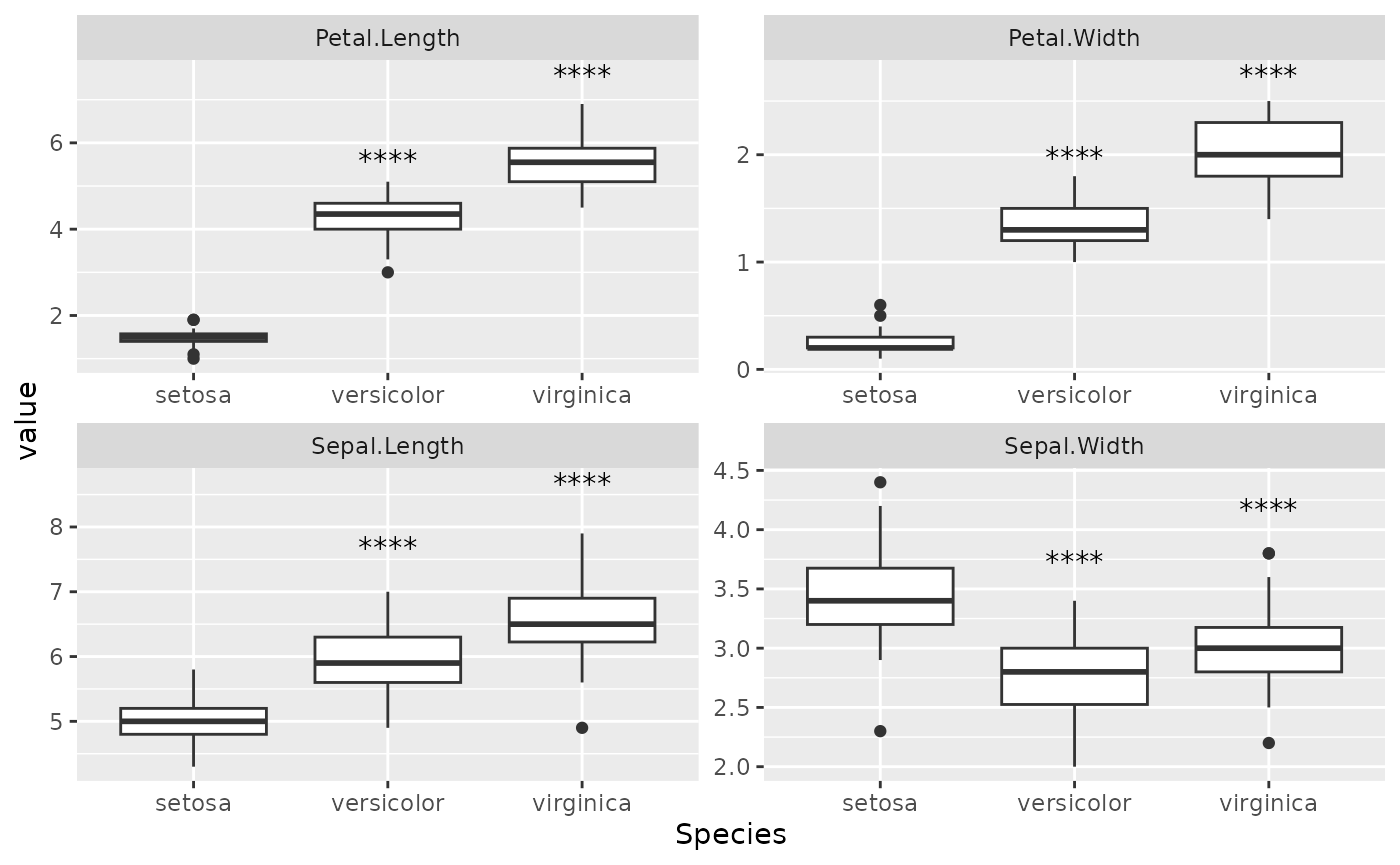
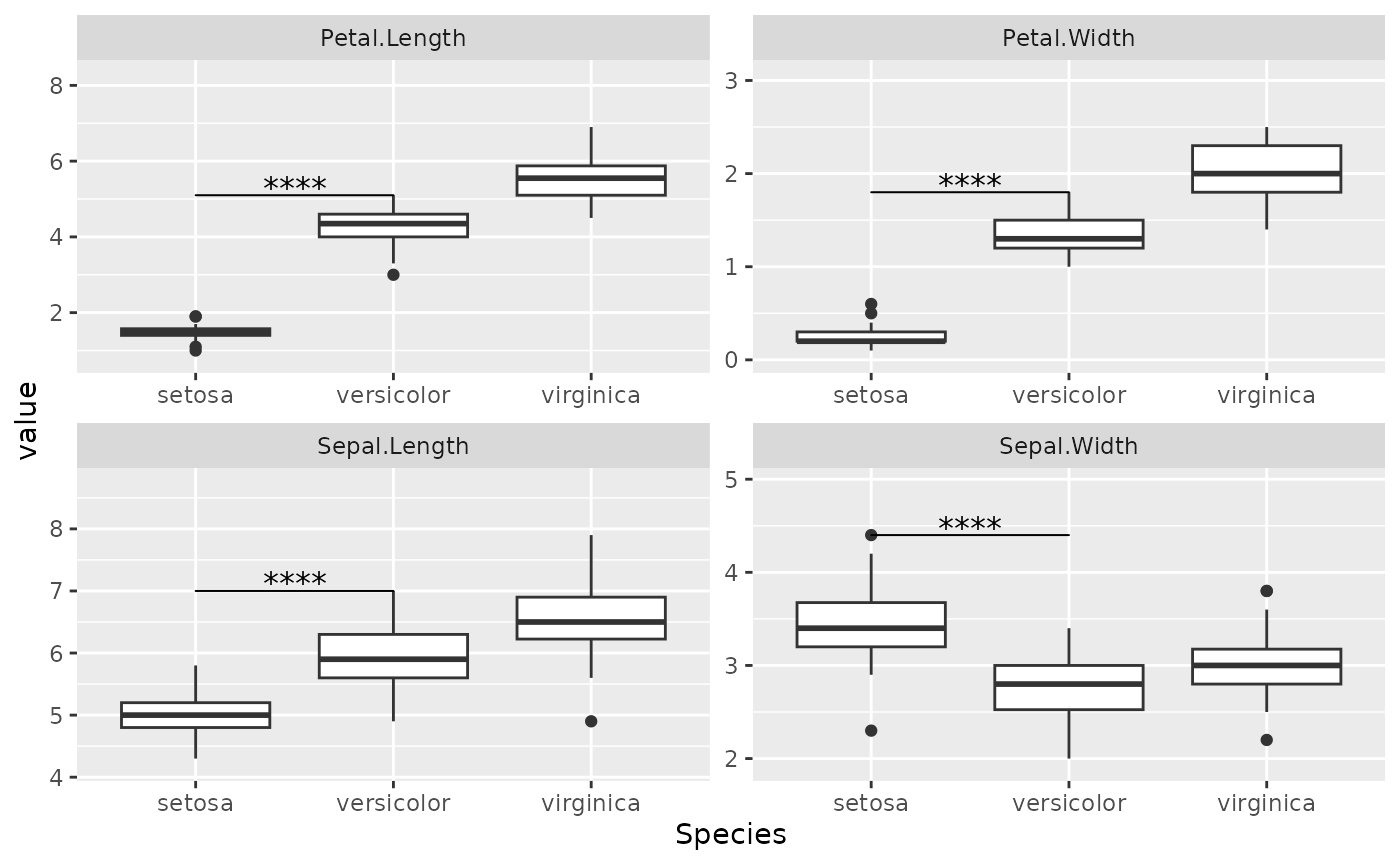
Deploying to gh-pages from @ myuhao/ggmulticomp@fff48fe5a08f52899221ff80b65fdf4333245be5 🚀

diff --git a/articles/Getting-Started.html b/articles/Getting-Started.html
@@ -20,7 +20,7 @@
 
     <a class="navbar-brand me-2" href="../index.html">ggmulticomp</a>
 
-    <small class="nav-text text-muted me-auto" data-bs-toggle="tooltip" data-bs-placement="bottom" title="">0.1.1</small>
+    <small class="nav-text text-muted me-auto" data-bs-toggle="tooltip" data-bs-placement="bottom" title="">0.1.2</small>
 
 
     <button class="navbar-toggler" type="button" data-bs-toggle="collapse" data-bs-target="#navbar" aria-controls="navbar" aria-expanded="false" aria-label="Toggle navigation">
@@ -70,7 +70,7 @@
 <span></span>
 <span></span>
 <span><span class="va">df</span> <span class="op">=</span> <span class="va">iris</span> <span class="op">|&gt;</span></span>
-<span>  <span class="fu">tidyr</span><span class="fu">::</span><span class="fu"><a href="https://tidyr.tidyverse.org/reference/pivot_longer.html" class="external-link">pivot_longer</a></span><span class="op">(</span><span class="op">-</span><span class="va">Species</span> <span class="op">)</span></span>
+<span>  <span class="fu">tidyr</span><span class="fu">::</span><span class="fu"><a href="https://tidyr.tidyverse.org/reference/pivot_longer.html" class="external-link">pivot_longer</a></span><span class="op">(</span><span class="op">-</span><span class="va">Species</span><span class="op">)</span></span>
 <span></span>
 <span><span class="va">base_plot</span> <span class="op">=</span> <span class="va">df</span> <span class="op">|&gt;</span></span>
 <span>  <span class="fu"><a href="https://ggplot2.tidyverse.org/reference/ggplot.html" class="external-link">ggplot</a></span><span class="op">(</span><span class="fu"><a href="https://ggplot2.tidyverse.org/reference/aes.html" class="external-link">aes</a></span><span class="op">(</span>x <span class="op">=</span> <span class="va">Species</span>, y <span class="op">=</span> <span class="va">value</span><span class="op">)</span><span class="op">)</span> <span class="op">+</span></span>
@@ -146,6 +146,15 @@ not look good by default.</p>
 <span>  <span class="fu"><a href="../reference/Tukey.html">stat_tukey</a></span><span class="op">(</span>text_size <span class="op">=</span> <span class="fl">5</span>, line_size <span class="op">=</span> <span class="fl">0.5</span>, linetype <span class="op">=</span> <span class="fl">2</span><span class="op">)</span> <span class="op">+</span> </span>
 <span>  <span class="fu"><a href="https://ggplot2.tidyverse.org/reference/scale_continuous.html" class="external-link">scale_y_continuous</a></span><span class="op">(</span>expand <span class="op">=</span> <span class="fu"><a href="https://ggplot2.tidyverse.org/reference/expansion.html" class="external-link">expansion</a></span><span class="op">(</span>mult <span class="op">=</span> <span class="fu"><a href="https://rdrr.io/r/base/c.html" class="external-link">c</a></span><span class="op">(</span><span class="fl">0.1</span>, <span class="fl">0.5</span><span class="op">)</span><span class="op">)</span><span class="op">)</span></span></code></pre></div>
 <p><img src="Getting-Started_files/figure-html/unnamed-chunk-6-1.png" class="r-plt" alt="" width="700"></p>
+<p>The <code>comparisons()</code> parameter allows only selected
+comparisons to be displayed. This parameter doesn’t change the
+underlying statistics (all groups will be included in statistical
+test).</p>
+<div class="sourceCode" id="cb8"><pre class="downlit sourceCode r">
+<code class="sourceCode R"><span><span class="va">base_plot</span> <span class="op">+</span></span>
+<span>  <span class="fu"><a href="../reference/Tukey.html">stat_tukey</a></span><span class="op">(</span>comparisons <span class="op">=</span> <span class="fu"><a href="https://rdrr.io/r/base/list.html" class="external-link">list</a></span><span class="op">(</span><span class="fu"><a href="https://rdrr.io/r/base/c.html" class="external-link">c</a></span><span class="op">(</span><span class="fl">1</span>, <span class="fl">2</span><span class="op">)</span><span class="op">)</span><span class="op">)</span> <span class="op">+</span></span>
+<span>  <span class="fu"><a href="https://ggplot2.tidyverse.org/reference/scale_continuous.html" class="external-link">scale_y_continuous</a></span><span class="op">(</span>expand <span class="op">=</span> <span class="fu"><a href="https://ggplot2.tidyverse.org/reference/expansion.html" class="external-link">expansion</a></span><span class="op">(</span>mult <span class="op">=</span> <span class="fu"><a href="https://rdrr.io/r/base/c.html" class="external-link">c</a></span><span class="op">(</span><span class="fl">0.1</span>, <span class="fl">0.3</span><span class="op">)</span><span class="op">)</span><span class="op">)</span></span></code></pre></div>
+<p><img src="Getting-Started_files/figure-html/unnamed-chunk-7-1.png" class="r-plt" alt="" width="700"></p>
 </div>
 <div class="section level2">
 <h2 id="dunnett">Dunnett<a class="anchor" aria-label="anchor" href="#dunnett"></a>
@@ -153,23 +162,23 @@ not look good by default.</p>
 <p>Dunnett test works similar to Tukey test. The parameter should work
 similarly. One key distinction is that <code><a href="../reference/Dunnett.html">stat_dunnett()</a></code> shows
 the p-values at the top of the group</p>
-<div class="sourceCode" id="cb8"><pre class="downlit sourceCode r">
-<code class="sourceCode R"><span><span class="va">base_plot</span> <span class="op">+</span></span>
-<span>  <span class="fu"><a href="../reference/Dunnett.html">stat_dunnett</a></span><span class="op">(</span><span class="op">)</span></span></code></pre></div>
-<p><img src="Getting-Started_files/figure-html/unnamed-chunk-7-1.png" class="r-plt" alt="" width="700"></p>
-<p>A different style of alignment can be used.</p>
 <div class="sourceCode" id="cb9"><pre class="downlit sourceCode r">
 <code class="sourceCode R"><span><span class="va">base_plot</span> <span class="op">+</span></span>
-<span>  <span class="fu"><a href="../reference/Dunnett.html">stat_dunnett</a></span><span class="op">(</span>p.y_align <span class="op">=</span> <span class="fl">2</span><span class="op">)</span></span></code></pre></div>
+<span>  <span class="fu"><a href="../reference/Dunnett.html">stat_dunnett</a></span><span class="op">(</span><span class="op">)</span></span></code></pre></div>
 <p><img src="Getting-Started_files/figure-html/unnamed-chunk-8-1.png" class="r-plt" alt="" width="700"></p>
+<p>A different style of alignment can be used.</p>
+<div class="sourceCode" id="cb10"><pre class="downlit sourceCode r">
+<code class="sourceCode R"><span><span class="va">base_plot</span> <span class="op">+</span></span>
+<span>  <span class="fu"><a href="../reference/Dunnett.html">stat_dunnett</a></span><span class="op">(</span>p.y_align <span class="op">=</span> <span class="fl">2</span><span class="op">)</span></span></code></pre></div>
+<p><img src="Getting-Started_files/figure-html/unnamed-chunk-9-1.png" class="r-plt" alt="" width="700"></p>
 <p>If you want explicitly show which comparisons are made, use
 <code>GeomBracket</code> as the geom.</p>
-<div class="sourceCode" id="cb10"><pre class="downlit sourceCode r">
+<div class="sourceCode" id="cb11"><pre class="downlit sourceCode r">
 <code class="sourceCode R"><span></span>
 <span><span class="va">base_plot</span> <span class="op">+</span></span>
 <span>  <span class="fu"><a href="../reference/Dunnett.html">stat_dunnett</a></span><span class="op">(</span>geom <span class="op">=</span> <span class="st">"bracket"</span><span class="op">)</span> <span class="op">+</span> </span>
 <span>  <span class="fu"><a href="https://ggplot2.tidyverse.org/reference/scale_continuous.html" class="external-link">scale_y_continuous</a></span><span class="op">(</span>expand <span class="op">=</span> <span class="fu"><a href="https://ggplot2.tidyverse.org/reference/expansion.html" class="external-link">expansion</a></span><span class="op">(</span>mult <span class="op">=</span> <span class="fu"><a href="https://rdrr.io/r/base/c.html" class="external-link">c</a></span><span class="op">(</span><span class="fl">0.1</span>, <span class="fl">0.5</span><span class="op">)</span><span class="op">)</span><span class="op">)</span></span></code></pre></div>
-<p><img src="Getting-Started_files/figure-html/unnamed-chunk-9-1.png" class="r-plt" alt="" width="700"></p>
+<p><img src="Getting-Started_files/figure-html/unnamed-chunk-10-1.png" class="r-plt" alt="" width="700"></p>
 </div>
   </main><aside class="col-md-3"><nav id="toc" aria-label="Table of contents"><h2>On this page</h2>
     </nav></aside>

diff --git a/index.html b/index.html
@@ -22,7 +22,7 @@
 
     <a class="navbar-brand me-2" href="index.html">ggmulticomp</a>
 
-    <small class="nav-text text-muted me-auto" data-bs-toggle="tooltip" data-bs-placement="bottom" title="">0.1.1</small>
+    <small class="nav-text text-muted me-auto" data-bs-toggle="tooltip" data-bs-placement="bottom" title="">0.1.2</small>
 
 
     <button class="navbar-toggler" type="button" data-bs-toggle="collapse" data-bs-target="#navbar" aria-controls="navbar" aria-expanded="false" aria-label="Toggle navigation">
@@ -77,27 +77,14 @@
 <span>    y <span class="op">=</span> <span class="va">value</span>, x <span class="op">=</span> <span class="va">Species</span></span>
 <span>  <span class="op">)</span> </span>
 <span></span>
-<span><span class="va">dat</span> <span class="op">|&gt;</span></span>
-<span>  <span class="fu"><a href="https://ggplot2.tidyverse.org/reference/ggplot.html" class="external-link">ggplot</a></span><span class="op">(</span><span class="fu"><a href="https://ggplot2.tidyverse.org/reference/aes.html" class="external-link">aes</a></span><span class="op">(</span>x <span class="op">=</span> <span class="va">Species</span>, y <span class="op">=</span> <span class="va">value</span><span class="op">)</span><span class="op">)</span> <span class="op">+</span></span>
+<span><span class="va">iris</span> <span class="op">|&gt;</span></span>
+<span>  <span class="fu"><a href="https://ggplot2.tidyverse.org/reference/ggplot.html" class="external-link">ggplot</a></span><span class="op">(</span><span class="fu"><a href="https://ggplot2.tidyverse.org/reference/aes.html" class="external-link">aes</a></span><span class="op">(</span>x <span class="op">=</span> <span class="va">Species</span>, y <span class="op">=</span> <span class="va">Sepal.Length</span><span class="op">)</span><span class="op">)</span> <span class="op">+</span></span>
 <span>  <span class="fu"><a href="https://ggplot2.tidyverse.org/reference/geom_point.html" class="external-link">geom_point</a></span><span class="op">(</span><span class="op">)</span> <span class="op">+</span></span>
 <span>  <span class="fu"><a href="https://ggplot2.tidyverse.org/reference/stat_summary.html" class="external-link">stat_summary</a></span><span class="op">(</span>geom <span class="op">=</span> <span class="va">GeomCol</span><span class="op">)</span> <span class="op">+</span></span>
-<span>  <span class="fu"><a href="reference/Dunnett.html">stat_dunnett</a></span><span class="op">(</span>color <span class="op">=</span> <span class="st">"red"</span><span class="op">)</span> <span class="op">+</span></span>
-<span>  <span class="fu"><a href="https://ggplot2.tidyverse.org/reference/facet_grid.html" class="external-link">facet_grid</a></span><span class="op">(</span>rows <span class="op">=</span> <span class="fu"><a href="https://ggplot2.tidyverse.org/reference/vars.html" class="external-link">vars</a></span><span class="op">(</span><span class="va">name</span><span class="op">)</span>, cols <span class="op">=</span> <span class="fu"><a href="https://ggplot2.tidyverse.org/reference/vars.html" class="external-link">vars</a></span><span class="op">(</span><span class="st">"a"</span><span class="op">)</span>, scale <span class="op">=</span> <span class="st">"free_y"</span><span class="op">)</span></span>
-<span><span class="co">#&gt; No summary function supplied, defaulting to `mean_se()`</span></span>
-<span><span class="co">#&gt; Warning: Removed 4 rows containing missing values or values outside the scale range</span></span>
-<span><span class="co">#&gt; (`geom_text()`).</span></span></code></pre></div>
-<p><img src="reference/figures/README-example-1.png" width="100%"></p>
-<div class="sourceCode" id="cb3"><pre class="downlit sourceCode r">
-<code class="sourceCode R"><span></span>
-<span><span class="va">dat</span> <span class="op">|&gt;</span></span>
-<span>  <span class="fu"><a href="https://ggplot2.tidyverse.org/reference/ggplot.html" class="external-link">ggplot</a></span><span class="op">(</span><span class="fu"><a href="https://ggplot2.tidyverse.org/reference/aes.html" class="external-link">aes</a></span><span class="op">(</span>x <span class="op">=</span> <span class="va">Species</span>, y <span class="op">=</span> <span class="va">value</span><span class="op">)</span><span class="op">)</span> <span class="op">+</span></span>
-<span>  <span class="fu"><a href="https://ggplot2.tidyverse.org/reference/geom_point.html" class="external-link">geom_point</a></span><span class="op">(</span><span class="op">)</span> <span class="op">+</span></span>
-<span>  <span class="fu"><a href="https://ggplot2.tidyverse.org/reference/stat_summary.html" class="external-link">stat_summary</a></span><span class="op">(</span>geom <span class="op">=</span> <span class="va">GeomCol</span><span class="op">)</span> <span class="op">+</span></span>
-<span>  <span class="fu">geom_tukey</span><span class="op">(</span><span class="op">)</span> <span class="op">+</span></span>
-<span>  <span class="fu"><a href="https://ggplot2.tidyverse.org/reference/scale_continuous.html" class="external-link">scale_y_continuous</a></span><span class="op">(</span>expand <span class="op">=</span> <span class="fu"><a href="https://ggplot2.tidyverse.org/reference/expansion.html" class="external-link">expansion</a></span><span class="op">(</span>mult <span class="op">=</span> <span class="fu"><a href="https://rdrr.io/r/base/c.html" class="external-link">c</a></span><span class="op">(</span><span class="fl">0</span>, <span class="fl">0.2</span><span class="op">)</span><span class="op">)</span><span class="op">)</span> <span class="op">+</span></span>
-<span>  <span class="fu"><a href="https://ggplot2.tidyverse.org/reference/facet_grid.html" class="external-link">facet_grid</a></span><span class="op">(</span>rows <span class="op">=</span> <span class="fu"><a href="https://ggplot2.tidyverse.org/reference/vars.html" class="external-link">vars</a></span><span class="op">(</span><span class="va">name</span><span class="op">)</span>, cols <span class="op">=</span> <span class="fu"><a href="https://ggplot2.tidyverse.org/reference/vars.html" class="external-link">vars</a></span><span class="op">(</span><span class="st">"a"</span><span class="op">)</span>, scale <span class="op">=</span> <span class="st">"free_y"</span><span class="op">)</span></span>
+<span>  <span class="fu"><a href="reference/Tukey.html">stat_tukey</a></span><span class="op">(</span><span class="op">)</span> <span class="op">+</span></span>
+<span>  <span class="fu"><a href="https://ggplot2.tidyverse.org/reference/scale_continuous.html" class="external-link">scale_y_continuous</a></span><span class="op">(</span>expand <span class="op">=</span> <span class="fu"><a href="https://ggplot2.tidyverse.org/reference/expansion.html" class="external-link">expansion</a></span><span class="op">(</span>mult <span class="op">=</span> <span class="fu"><a href="https://rdrr.io/r/base/c.html" class="external-link">c</a></span><span class="op">(</span><span class="fl">0</span>, <span class="fl">0.3</span><span class="op">)</span><span class="op">)</span><span class="op">)</span></span>
 <span><span class="co">#&gt; No summary function supplied, defaulting to `mean_se()`</span></span></code></pre></div>
-<p><img src="reference/figures/README-example-2.png" width="100%"></p>
+<p><img src="reference/figures/README-example-1.png" width="100%"></p>
 </div>
 </div>
   </main><aside class="col-md-3"><div class="license">

diff --git a/reference/Bracket.html b/reference/Bracket.html
@@ -11,7 +11,7 @@ bracket is automatically increased to dodge each other."></head><body>
 
     <a class="navbar-brand me-2" href="../index.html">ggmulticomp</a>
 
-    <small class="nav-text text-muted me-auto" data-bs-toggle="tooltip" data-bs-placement="bottom" title="">0.1.1</small>
+    <small class="nav-text text-muted me-auto" data-bs-toggle="tooltip" data-bs-placement="bottom" title="">0.1.2</small>
 
 
     <button class="navbar-toggler" type="button" data-bs-toggle="collapse" data-bs-target="#navbar" aria-controls="navbar" aria-expanded="false" aria-label="Toggle navigation">
@@ -57,6 +57,7 @@ bracket is automatically increased to dodge each other.</p>
 <span>  text_size <span class="op">=</span> <span class="fl">12</span>,</span>
 <span>  line_size <span class="op">=</span> <span class="fl">1</span>,</span>
 <span>  linetype <span class="op">=</span> <span class="st">"solid"</span>,</span>
+<span>  comparisons <span class="op">=</span> <span class="cn">NULL</span>,</span>
 <span>  <span class="va">...</span></span>
 <span><span class="op">)</span></span>
 <span></span>
@@ -65,7 +66,7 @@ bracket is automatically increased to dodge each other.</p>
 
     <div class="section level2">
     <h2 id="format">Format<a class="anchor" aria-label="anchor" href="#format"></a></h2>
-    <p>An object of class <code>GeomBracket</code> (inherits from <code>Geom</code>, <code>ggproto</code>, <code>gg</code>) of length 4.</p>
+    <p>An object of class <code>GeomBracket</code> (inherits from <code>Geom</code>, <code>ggproto</code>, <code>gg</code>) of length 5.</p>
     </div>
     <div class="section level2">
     <h2 id="arguments">Arguments<a class="anchor" aria-label="anchor" href="#arguments"></a></h2>
@@ -81,6 +82,10 @@ bracket is automatically increased to dodge each other.</p>
 
 <dt id="arg-linetype">linetype<a class="anchor" aria-label="anchor" href="#arg-linetype"></a></dt>
 <dd><p>Format of the line.</p></dd>
+
+
+<dt id="arg-comparisons">comparisons<a class="anchor" aria-label="anchor" href="#arg-comparisons"></a></dt>
+<dd><p>A list of selected comparisons to plot</p></dd>
 
 </dl></div>
 

diff --git a/reference/Tukey.html b/reference/Tukey.html
@@ -9,7 +9,7 @@ Display the adjusted p-values on the figure."></head><body>
 
     <a class="navbar-brand me-2" href="../index.html">ggmulticomp</a>
 
-    <small class="nav-text text-muted me-auto" data-bs-toggle="tooltip" data-bs-placement="bottom" title="">0.1.1</small>
+    <small class="nav-text text-muted me-auto" data-bs-toggle="tooltip" data-bs-placement="bottom" title="">0.1.2</small>
 
 
     <button class="navbar-toggler" type="button" data-bs-toggle="collapse" data-bs-target="#navbar" aria-controls="navbar" aria-expanded="false" aria-label="Toggle navigation">
@@ -51,7 +51,7 @@ Display the adjusted p-values on the figure.</p>
 <span>  geom <span class="op">=</span> <span class="va">GeomBracket</span>,</span>
 <span>  position <span class="op">=</span> <span class="st">"identity"</span>,</span>
 <span>  inherit.aes <span class="op">=</span> <span class="cn">TRUE</span>,</span>
-<span>  show.ns <span class="op">=</span> <span class="cn">FALSE</span>,</span>
+<span>  show.ns <span class="op">=</span> <span class="cn">TRUE</span>,</span>
 <span>  trans_value <span class="op">=</span> <span class="cn">NULL</span>,</span>
 <span>  p.format <span class="op">=</span> <span class="cn">NULL</span>,</span>
 <span>  <span class="va">...</span></span>
@@ -90,6 +90,10 @@ Display the adjusted p-values on the figure.</p>
 
 <dt id="arg-linetype">linetype<a class="anchor" aria-label="anchor" href="#arg-linetype"></a></dt>
 <dd><p>Type of the line spanning each group</p></dd>
+
+
+<dt id="arg-comparisons">comparisons<a class="anchor" aria-label="anchor" href="#arg-comparisons"></a></dt>
+<dd><p>A list of selected comparisons to plot</p></dd>
 
 </dl></div>
 

diff --git a/news/index.html b/news/index.html
@@ -7,7 +7,7 @@
 
     <a class="navbar-brand me-2" href="../index.html">ggmulticomp</a>
 
-    <small class="nav-text text-muted me-auto" data-bs-toggle="tooltip" data-bs-placement="bottom" title="">0.1.1</small>
+    <small class="nav-text text-muted me-auto" data-bs-toggle="tooltip" data-bs-placement="bottom" title="">0.1.2</small>
 
 
     <button class="navbar-toggler" type="button" data-bs-toggle="collapse" data-bs-target="#navbar" aria-controls="navbar" aria-expanded="false" aria-label="Toggle navigation">
@@ -47,6 +47,10 @@
 <h2 class="pkg-version" data-toc-text="0.1.1" id="ggmulticomp-011">ggmulticomp 0.1.1<a class="anchor" aria-label="anchor" href="#ggmulticomp-011"></a></h2>
 <ul><li>Add options to show numeric p-values</li>
 <li>Unified Dunnett and Tukey parameters</li>
+</ul></div>
+    <div class="section level2">
+<h2 class="pkg-version" data-toc-text="0.1.2" id="ggmulticomp-012">ggmulticomp 0.1.2<a class="anchor" aria-label="anchor" href="#ggmulticomp-012"></a></h2>
+<ul><li>Add options to only display selected comparisons</li>
 </ul></div>
   </main><aside class="col-md-3"><nav id="toc" aria-label="Table of contents"><h2>On this page</h2>
     </nav></aside></div>

diff --git a/authors.html b/authors.html
@@ -7,7 +7,7 @@
 
     <a class="navbar-brand me-2" href="index.html">ggmulticomp</a>
 
-    <small class="nav-text text-muted me-auto" data-bs-toggle="tooltip" data-bs-placement="bottom" title="">0.1.1</small>
+    <small class="nav-text text-muted me-auto" data-bs-toggle="tooltip" data-bs-placement="bottom" title="">0.1.2</small>
 
 
     <button class="navbar-toggler" type="button" data-bs-toggle="collapse" data-bs-target="#navbar" aria-controls="navbar" aria-expanded="false" aria-label="Toggle navigation">
@@ -49,13 +49,13 @@
 
       <p>Min Y (2025).
 <em>ggmulticomp: Layers For Multiple Comparison</em>.
-R package version 0.1.1, <a href="http://www.myuhao.com/ggmulticomp/">http://www.myuhao.com/ggmulticomp/</a>.
+R package version 0.1.2, <a href="http://www.myuhao.com/ggmulticomp/">http://www.myuhao.com/ggmulticomp/</a>.
 </p>
       <pre>@Manual{,
   title = {ggmulticomp: Layers For Multiple Comparison},
   author = {Yuhao Min},
   year = {2025},
-  note = {R package version 0.1.1},
+  note = {R package version 0.1.2},
   url = {http://www.myuhao.com/ggmulticomp/},
 }</pre>
     </div>

diff --git a/reference/Dunnett.html b/reference/Dunnett.html
@@ -9,7 +9,7 @@ Display the adjusted p-values on the figure."></head><body>
 
     <a class="navbar-brand me-2" href="../index.html">ggmulticomp</a>
 
-    <small class="nav-text text-muted me-auto" data-bs-toggle="tooltip" data-bs-placement="bottom" title="">0.1.1</small>
+    <small class="nav-text text-muted me-auto" data-bs-toggle="tooltip" data-bs-placement="bottom" title="">0.1.2</small>
 
 
     <button class="navbar-toggler" type="button" data-bs-toggle="collapse" data-bs-target="#navbar" aria-controls="navbar" aria-expanded="false" aria-label="Toggle navigation">
@@ -107,6 +107,10 @@ Display the adjusted p-values on the figure.</p>
 
 <dt id="arg-linetype">linetype<a class="anchor" aria-label="anchor" href="#arg-linetype"></a></dt>
 <dd><p>Type of the line spanning each group</p></dd>
+
+
+<dt id="arg-comparisons">comparisons<a class="anchor" aria-label="anchor" href="#arg-comparisons"></a></dt>
+<dd><p>A list of selected comparisons to plot</p></dd>
 
 </dl></div>
     <div class="section level2">

diff --git a/404.html b/404.html
@@ -20,7 +20,7 @@
 
     <a class="navbar-brand me-2" href="http://www.myuhao.com/ggmulticomp/index.html">ggmulticomp</a>
 
-    <small class="nav-text text-muted me-auto" data-bs-toggle="tooltip" data-bs-placement="bottom" title="">0.1.1</small>
+    <small class="nav-text text-muted me-auto" data-bs-toggle="tooltip" data-bs-placement="bottom" title="">0.1.2</small>
 
 
     <button class="navbar-toggler" type="button" data-bs-toggle="collapse" data-bs-target="#navbar" aria-controls="navbar" aria-expanded="false" aria-label="Toggle navigation">

diff --git a/articles/index.html b/articles/index.html
@@ -7,7 +7,7 @@
 
     <a class="navbar-brand me-2" href="../index.html">ggmulticomp</a>
 
-    <small class="nav-text text-muted me-auto" data-bs-toggle="tooltip" data-bs-placement="bottom" title="">0.1.1</small>
+    <small class="nav-text text-muted me-auto" data-bs-toggle="tooltip" data-bs-placement="bottom" title="">0.1.2</small>
 
 
     <button class="navbar-toggler" type="button" data-bs-toggle="collapse" data-bs-target="#navbar" aria-controls="navbar" aria-expanded="false" aria-label="Toggle navigation">

diff --git a/reference/dot-get_y.position.html b/reference/dot-get_y.position.html
@@ -7,7 +7,7 @@
 
     <a class="navbar-brand me-2" href="../index.html">ggmulticomp</a>
 
-    <small class="nav-text text-muted me-auto" data-bs-toggle="tooltip" data-bs-placement="bottom" title="">0.1.1</small>
+    <small class="nav-text text-muted me-auto" data-bs-toggle="tooltip" data-bs-placement="bottom" title="">0.1.2</small>
 
 
     <button class="navbar-toggler" type="button" data-bs-toggle="collapse" data-bs-target="#navbar" aria-controls="navbar" aria-expanded="false" aria-label="Toggle navigation">

diff --git a/reference/dot-label_p_value.html b/reference/dot-label_p_value.html
@@ -7,7 +7,7 @@
 
     <a class="navbar-brand me-2" href="../index.html">ggmulticomp</a>
 
-    <small class="nav-text text-muted me-auto" data-bs-toggle="tooltip" data-bs-placement="bottom" title="">0.1.1</small>
+    <small class="nav-text text-muted me-auto" data-bs-toggle="tooltip" data-bs-placement="bottom" title="">0.1.2</small>
 
 
     <button class="navbar-toggler" type="button" data-bs-toggle="collapse" data-bs-target="#navbar" aria-controls="navbar" aria-expanded="false" aria-label="Toggle navigation">

diff --git a/reference/ggmulticomp-package.html b/reference/ggmulticomp-package.html
@@ -7,7 +7,7 @@
 
     <a class="navbar-brand me-2" href="../index.html">ggmulticomp</a>
 
-    <small class="nav-text text-muted me-auto" data-bs-toggle="tooltip" data-bs-placement="bottom" title="">0.1.1</small>
+    <small class="nav-text text-muted me-auto" data-bs-toggle="tooltip" data-bs-placement="bottom" title="">0.1.2</small>
 
 
     <button class="navbar-toggler" type="button" data-bs-toggle="collapse" data-bs-target="#navbar" aria-controls="navbar" aria-expanded="false" aria-label="Toggle navigation">
